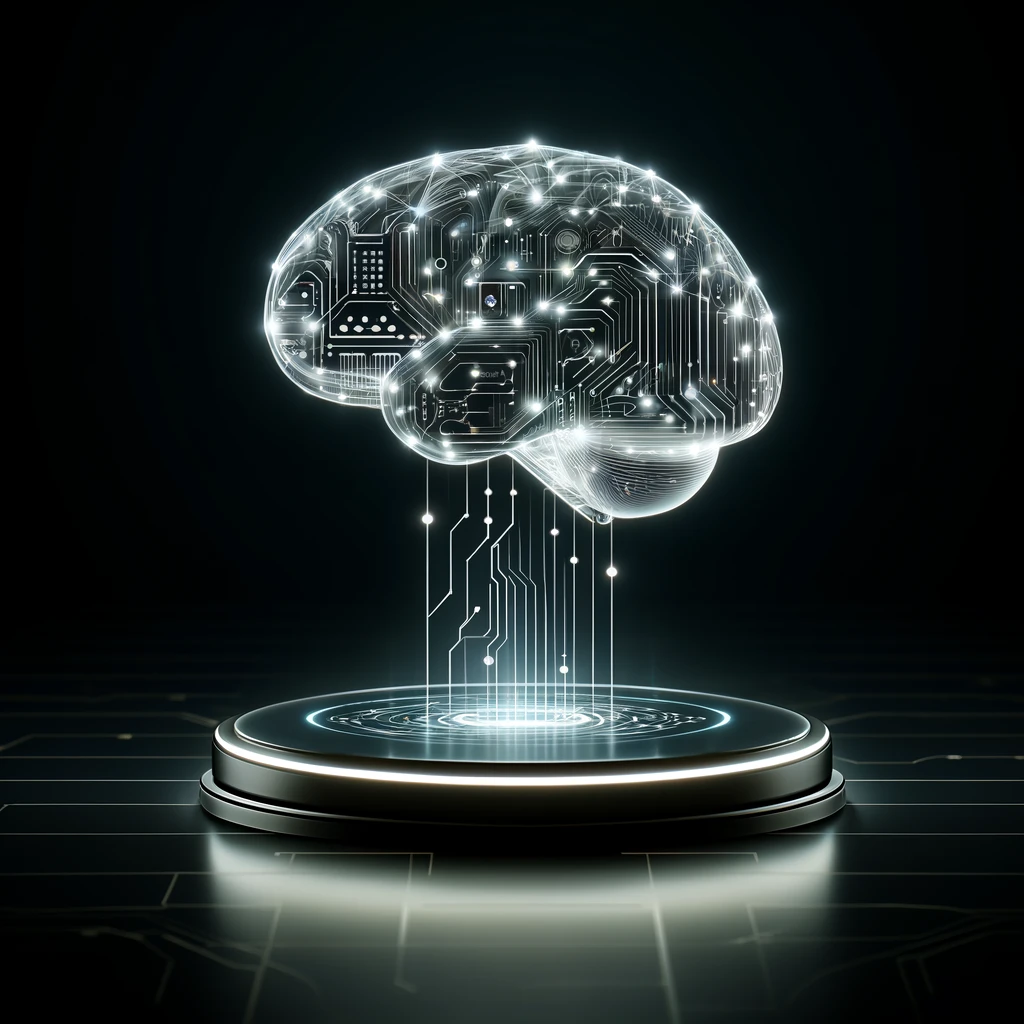
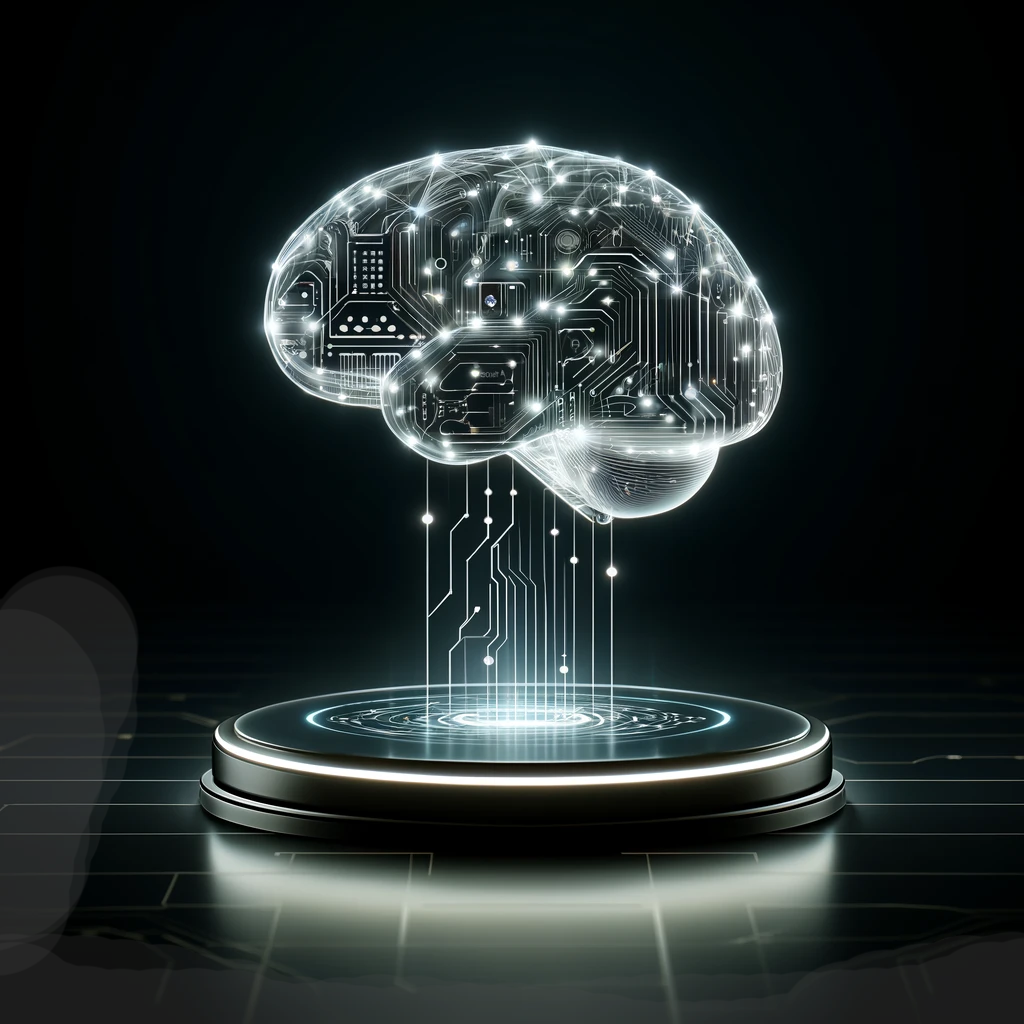
fix image

Changed region(s): [[0.0, 0.5625, 0.2812, 1.0], [0.75, 0.9062, 1.0, 1.0]]

diff --git a/07_mlm/index.html b/07_mlm/index.html
@@ -936,12 +936,12 @@ response_{it} &amp; \sim N(\mu_{it}, \sigma) \\
 </div>
 </div>
 </section>
-<section id="so-what-is-pooling-all-about" class="slide level2" data-background-image="./index_files/img/memory.png" data-background-size="400px" data-background-position="95% 50%">
+<section id="so-what-is-pooling-all-about" class="slide level2" data-background-color="#000" data-background-image="./index_files/img/memoryx.png" data-background-size="750px" data-background-position="100% 100%">
 <h2>So what is ‘pooling’ all about?</h2>
 <div class="columns">
 <div class="column" style="font-size: 0.75em;">
 <ul>
-<li>Some describe multilevel models as ‘models with memory’
+<li>Some describe multilevel models as ‘<span class="emph"><strong>models with memory</strong></span>’
 <ul>
 <li>The population-level model helps inform/learn about the grouping-level</li>
 <li>They learn faster, better</li>
